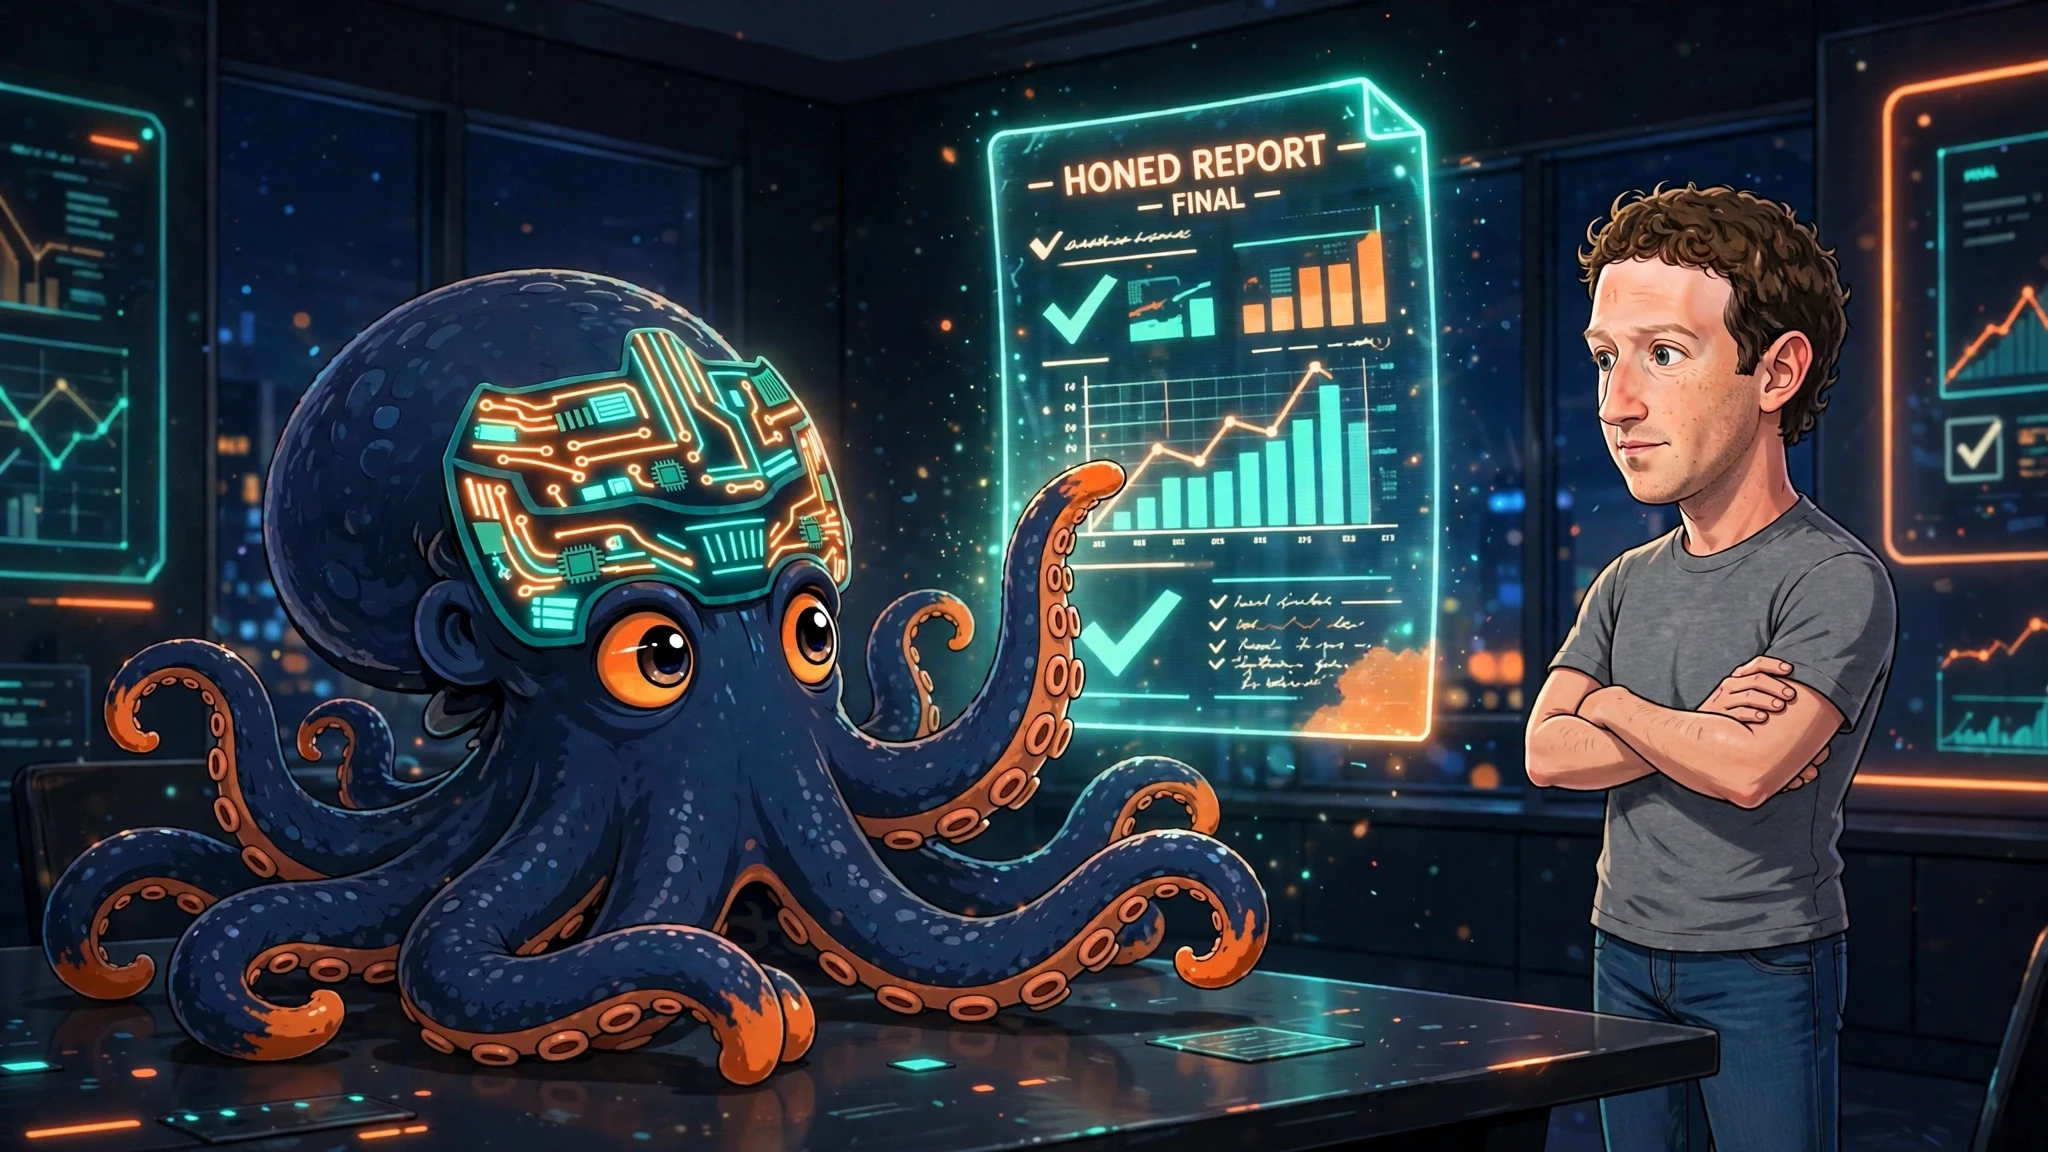
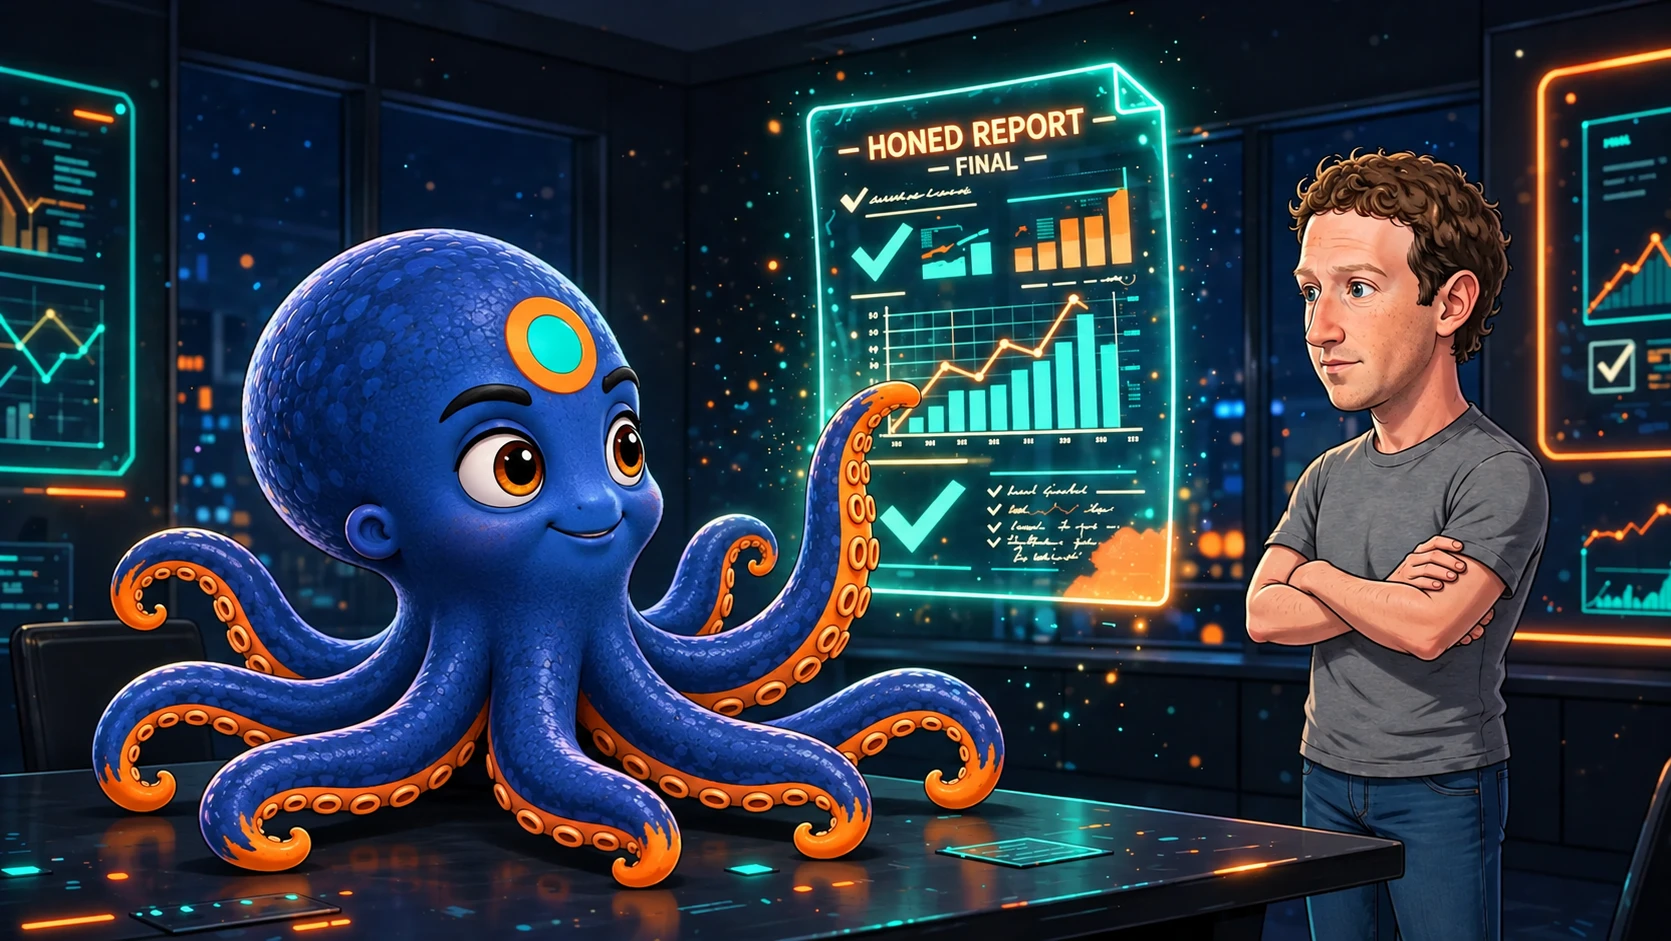
Meta Publishing hero: Freddie's ChatGPT scene with new-design Rio (8 arms, flat dot) replaces the circuit-headpiece original; alt updated

diff --git a/reports/meta-publishing/index.html b/reports/meta-publishing/index.html
@@ -345,7 +345,7 @@
       <article>
 
         <figure class="hs-hero">
-          <img src="/reports/images/meta-publishing-hero.webp" width="2048" height="1152" alt="Illustration: Rio, a cobalt-blue octopus wearing a circuit headpiece, presents a glowing holographic report to Mark Zuckerberg, who watches with folded arms in a dark office" />
+          <img src="/reports/images/meta-publishing-hero.webp" width="1671" height="941" alt="Illustration: Rio, a cobalt-blue octopus with a small teal-and-orange dot on his forehead, presents a glowing holographic report to Mark Zuckerberg, who watches with folded arms in a dark office" />
           <figcaption>Illustration: Rio presents the finished report — five AI systems, one verdict — to the man whose company it grades.</figcaption>
         </figure>
 
